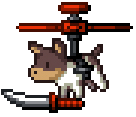
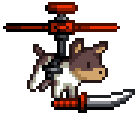
added new edited images but not resized yet (will do that later

diff --git a/src/game/Hero.java b/src/game/Hero.java
@@ -58,7 +58,7 @@ public class Hero extends Actor {
 //			proj.setRotate(-90);
 		}
 //		proj.setRotationAxis(Rotate.Y_AXIS);
-		proj.setRotate(-1 * (angle - 90)); // used guess and check to get this to work
+		proj.setRotate(-1 * (angle - 90)); 
 		proj.setY(getY() + getImage().getHeight() / 2);
 		proj.setDx(dx);
 		proj.setDy(dy);
